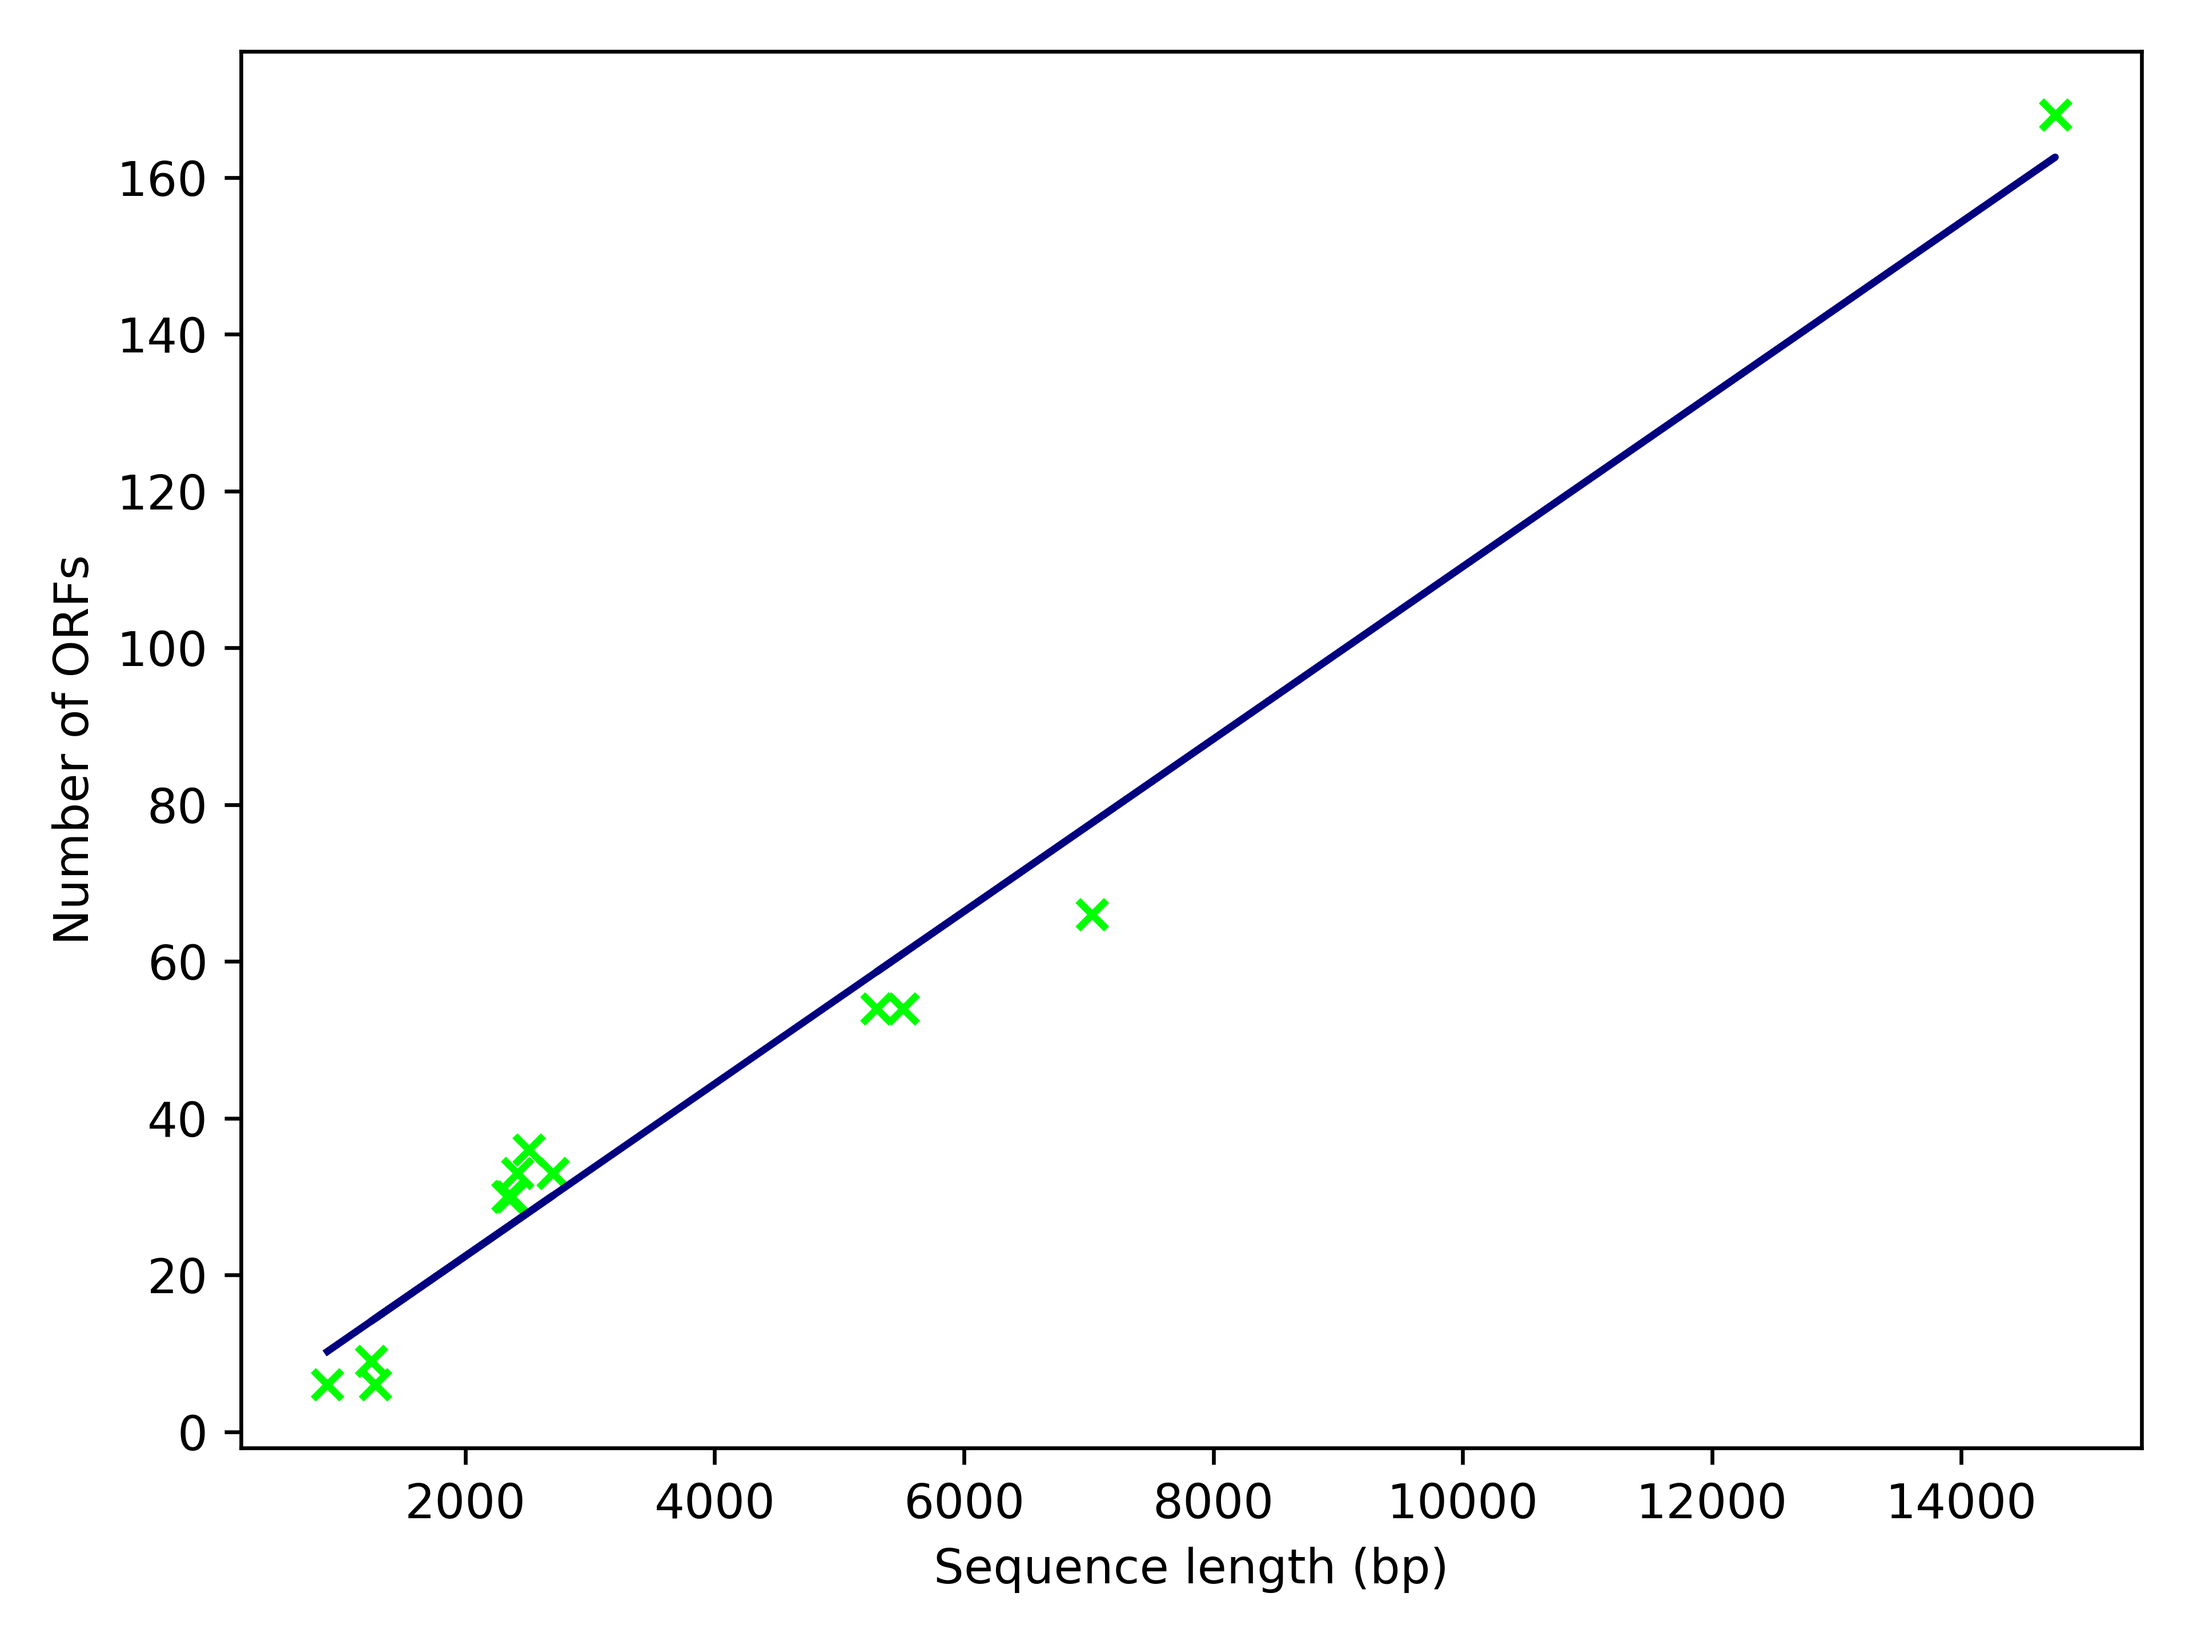
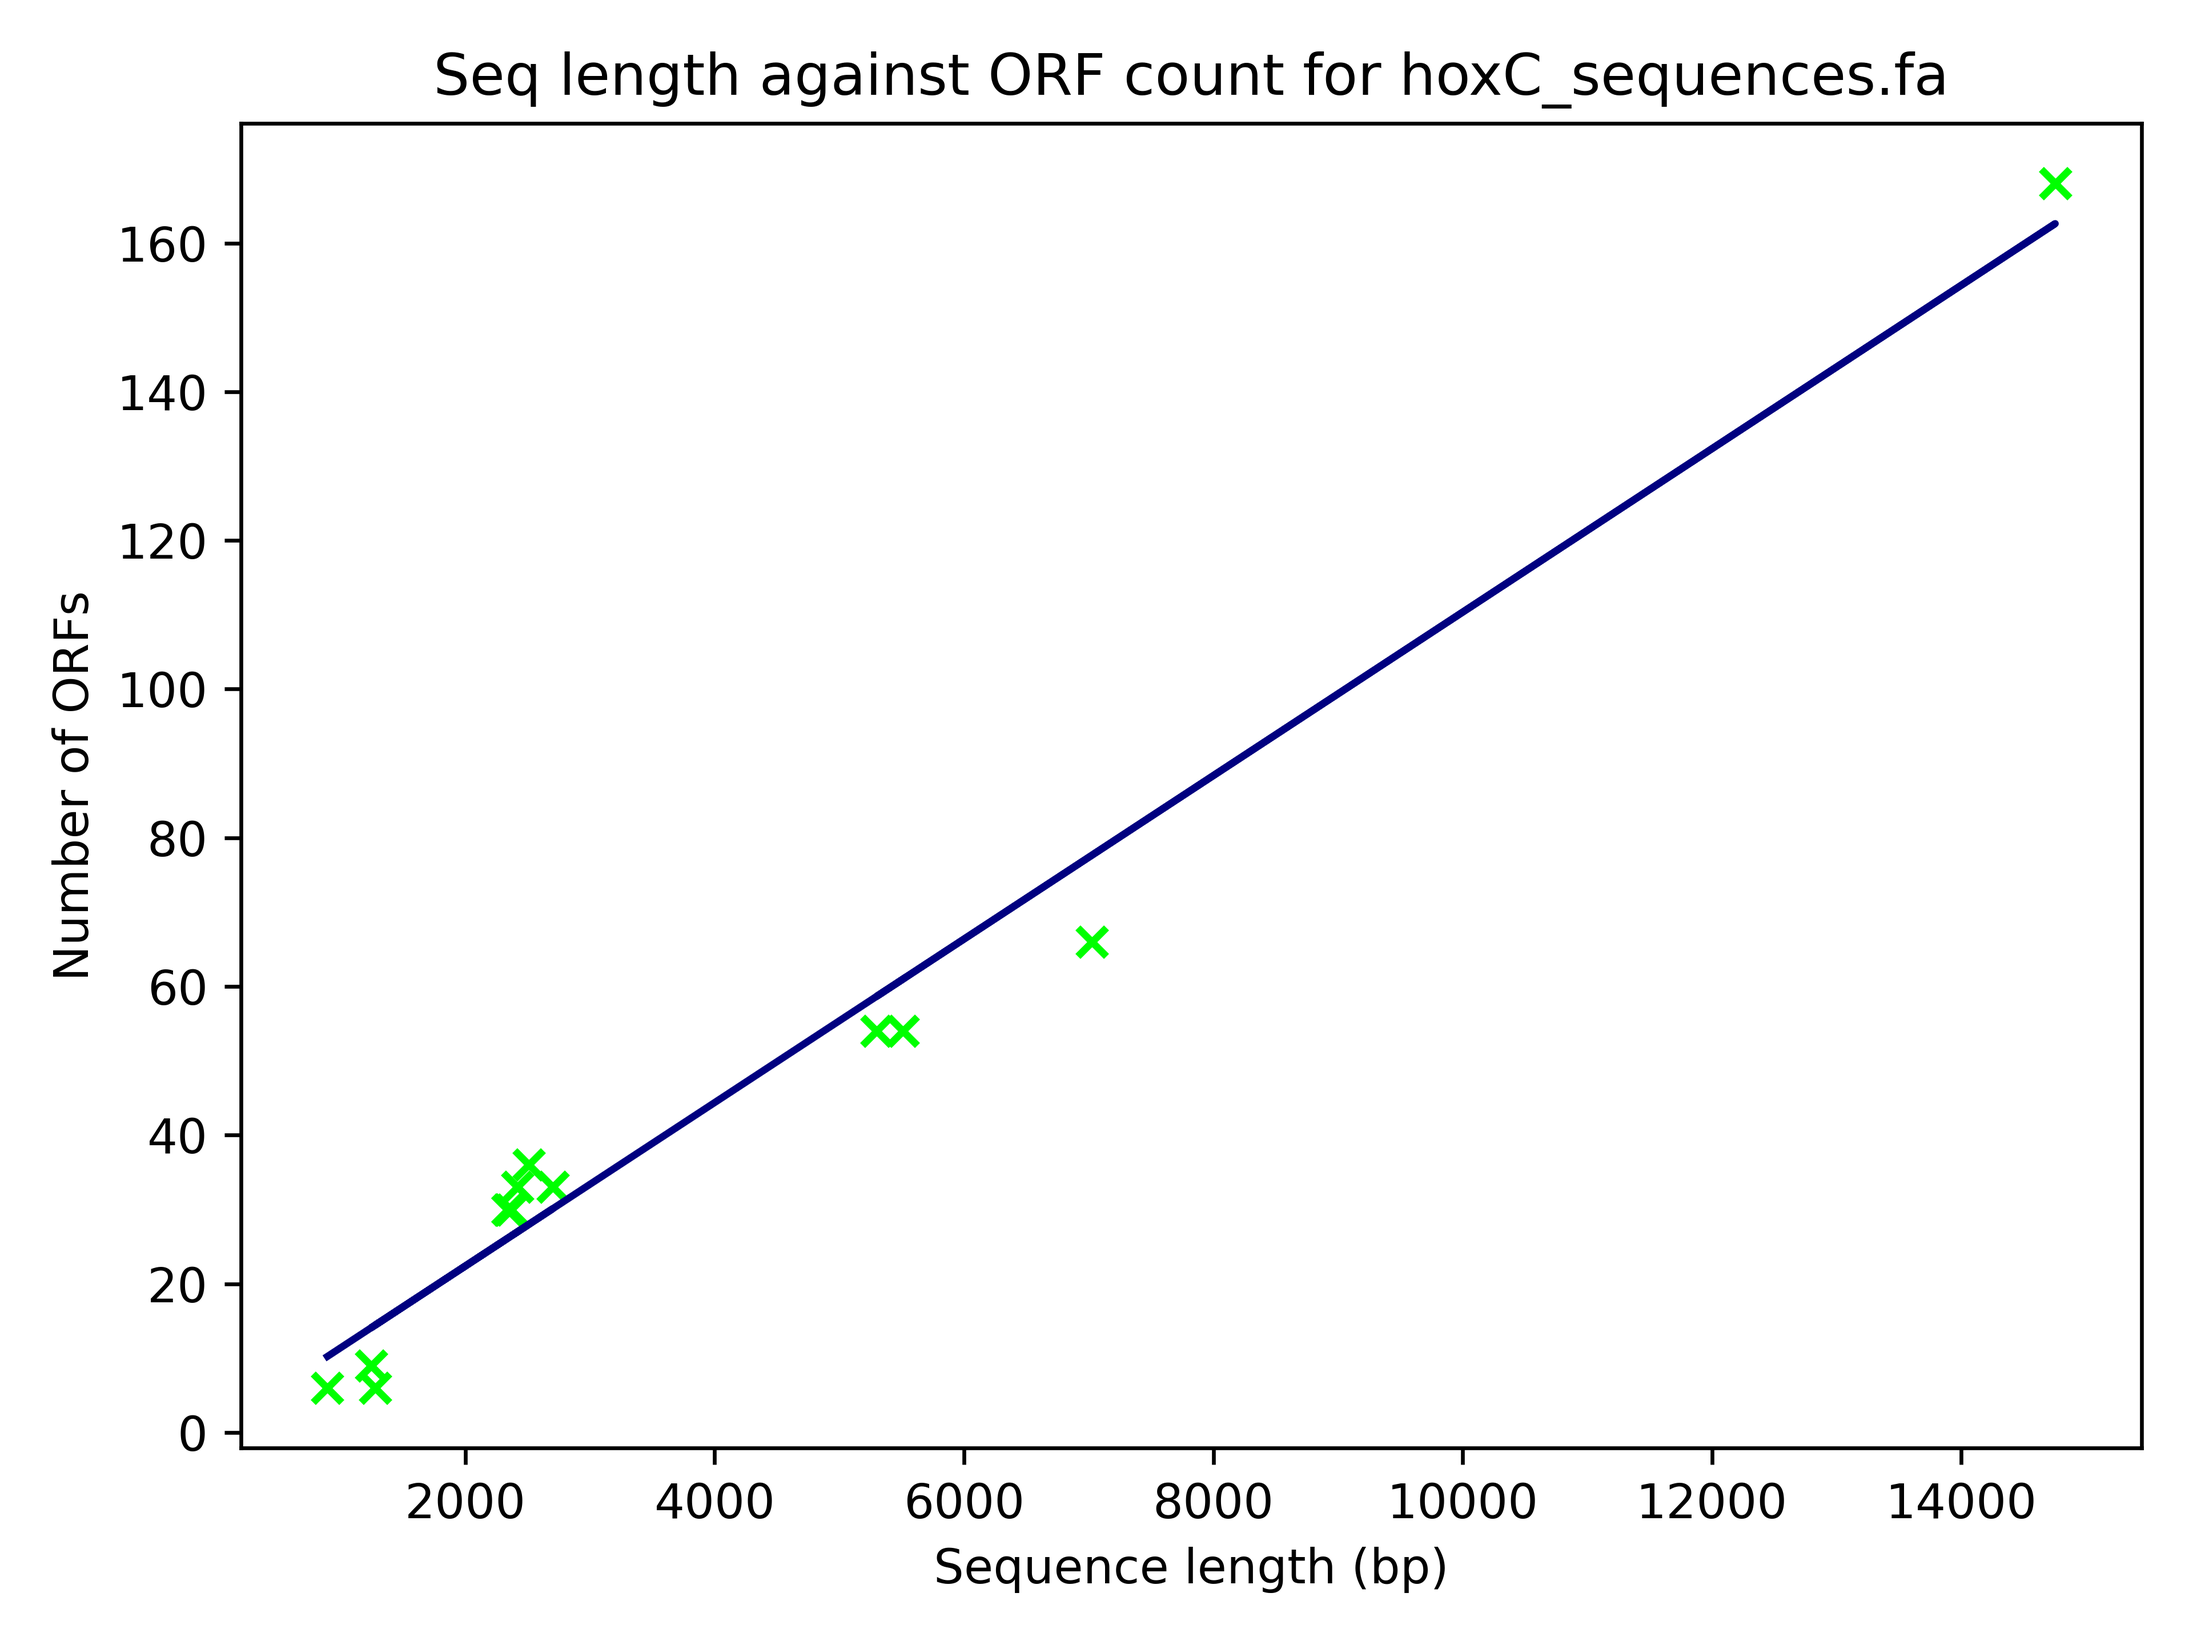
misc

diff --git a/scripts/dna.py b/scripts/dna.py
@@ -187,7 +187,8 @@ class DNA(Sequence):
         plt.bar(ids, T, bottom = A, color = "lime")
         plt.bar(ids, C, bottom = A + T, color = "cyan")
         plt.bar(ids, G, bottom = A + T + C, color = "fuchsia") 
-        # add axis labels and legend
+        # add labels and legend
+        plt.title(f"Base counts for {self.file}")
         plt.xlabel("Sequence IDs")
         plt.ylabel("Base Frequency")
         plt.legend(["A", "T", "C", "G"])
@@ -229,7 +230,8 @@ class DNA(Sequence):
         # caluclate  and add regression line https://www.python-graph-gallery.com/scatterplot-with-regression-fit-in-matplotlib
         a, b = np.polyfit(gc, avg_orf_length, 1)
         plt.plot(gc, a*gc+b, color = "lime")
-        # add axis labels
+        # add labels
+        plt.title(f"GC content against avg ORF for {self.file}")
         plt.xlabel("Sequence GC content (%)")
         plt.ylabel("Average ORF length (bp)")
         plt.tight_layout()
@@ -256,7 +258,8 @@ class DNA(Sequence):
         # caluclate  and add regression line https://www.python-graph-gallery.com/scatterplot-with-regression-fit-in-matplotlib
         a, b = np.polyfit(seq_lengths, orf_count, 1)
         plt.plot(seq_lengths, a*seq_lengths+b, color = "navy")
-        # add axis labels
+        # add labels
+        plt.title(f"Seq length against ORF count for {self.file}")
         plt.xlabel("Sequence length (bp)")
         plt.ylabel("Number of ORFs")
         plt.tight_layout()

diff --git a/docs/README.md b/docs/README.md
@@ -57,7 +57,7 @@ Cannot be used in conjuction with '--basic-stat'
 
 ```python3 dnaStat.py hoxC_sequences.fa test --complex-stat```
 
-The outputs of this command are stored in ./test/stat. The directory contains the same outputs as '--basic-stat' and also GC_ORF.png and seqLength_ORF.png. Both are scatter plots of avg ORF length vs seq GC content and seq length vs ORF count respectively for sequences in input.
+The outputs of this command are stored in ./test/stat. The directory contains the same outputs as '--basic-stat' and also GC_ORF.png and seqLength_ORF.png. Both are scatter plots of avg ORF length against seq GC content and seq length against ORF count respectively for sequences in input.
 
 #### Example GC_ORF.png and seqLength_ORF.png files
 
